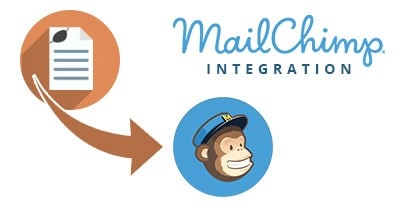
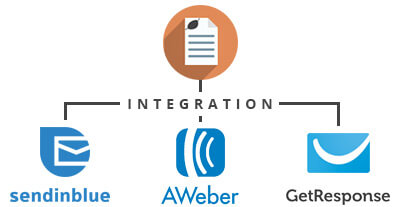
Added mutiple integrations feature in upsell.

diff --git a/admin/partials/upsell.php b/admin/partials/upsell.php
@@ -26,8 +26,8 @@ Layout For Upsell Page of Pirate forms
 		</div>
 		<div class="pro-feature">
 			<div class="pro-feature-features">
-				<h2>MailChimp Integraton</h2>
-				<p>Send your visitors details directly to MailChimp and connect with them via various emailing campaigns.
+				<h2>Multiple Integratons</h2>
+				<p>Send your visitors details directly to MailChimp, GetResponse, Aweber or Sendinblue and connect with them via various emailing campaigns.
 				</p>
 			</div>
 			<div class="pro-feature-image">
